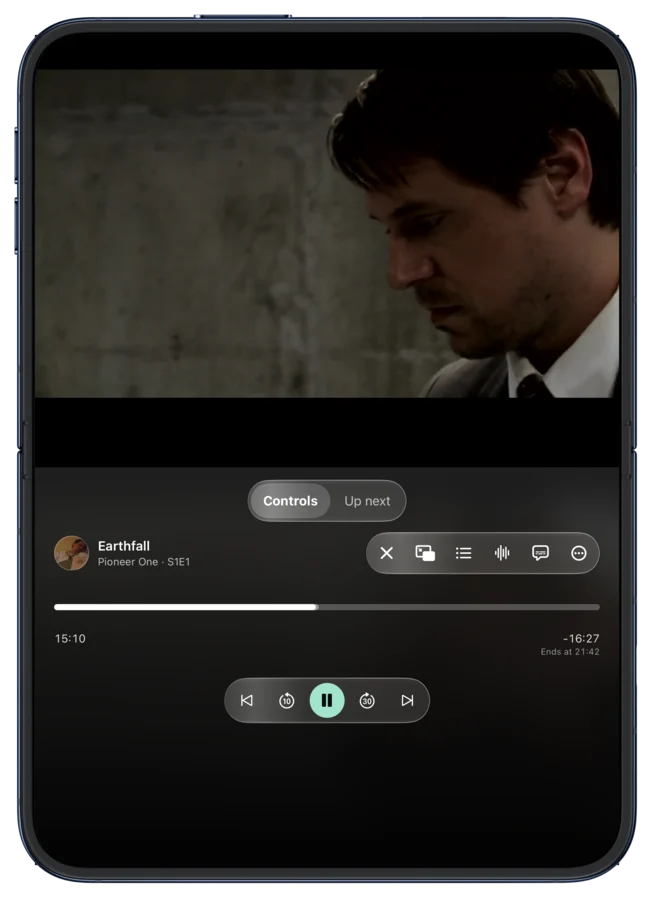
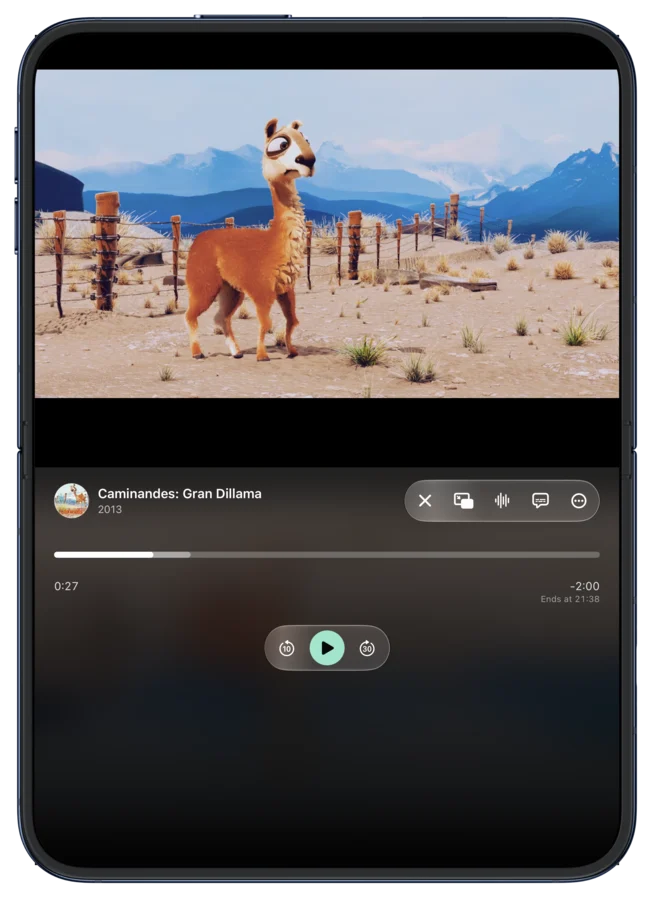
docs: tabletop screenshots that show the reflection [skip ci]
Bright paused frame captured standing at ~90 degrees, warped onto Apple's
half-open Duo bezel (its own Perspective Warp quads) plus a screen view.

Claude-Session: https://claude.ai/code/session_01DRb2qTt4QBDErNMzm6aBh8

diff --git a/README.md b/README.md
@@ -21,11 +21,12 @@
   <img src="./docs/screenshots/01-home.webp" alt="Folded: the Tonight home screen with a resume card and Up next" width="23%">
   <img src="./docs/screenshots/04-details.webp" alt="Folded: a film's page with the artwork and a glass sheet" width="23%">
   <img src="./docs/screenshots/07-player.webp" alt="Folded: the player with a centred glass dock" width="23%">
-  <img src="./docs/screenshots/02-tabletop.webp" alt="Tabletop: video on the top half, controls and Up next on the bottom" width="26%">
+  <img src="./docs/screenshots/02-tabletop.webp" alt="Tabletop, screen view: the picture reflects onto the lower half behind the glass controls" width="26%">
 </p>
 <p align="center">
-  <img src="./docs/screenshots/03-book.webp" alt="Book: the video and controls on the left page, the episode list on the right" width="48%">
-  <img src="./docs/screenshots/06-unfolded.webp" alt="Unfolded: the player on the full inner screen" width="48%">
+  <img src="./docs/screenshots/02-tabletop-real.webp" alt="Tabletop: the Duo standing half open, video on the upright half, controls over its reflection on the lower half" width="40%">
+  <img src="./docs/screenshots/03-book.webp" alt="Book: the video and controls on the left page, the episode list on the right" width="29%">
+  <img src="./docs/screenshots/06-unfolded.webp" alt="Unfolded: the player on the full inner screen" width="29%">
 </p>
 <p align="center"><sub>Shown with the public Jellyfin demo server's public-domain and Creative Commons films. Device frames: Apple Design Resources.</sub></p>
 
